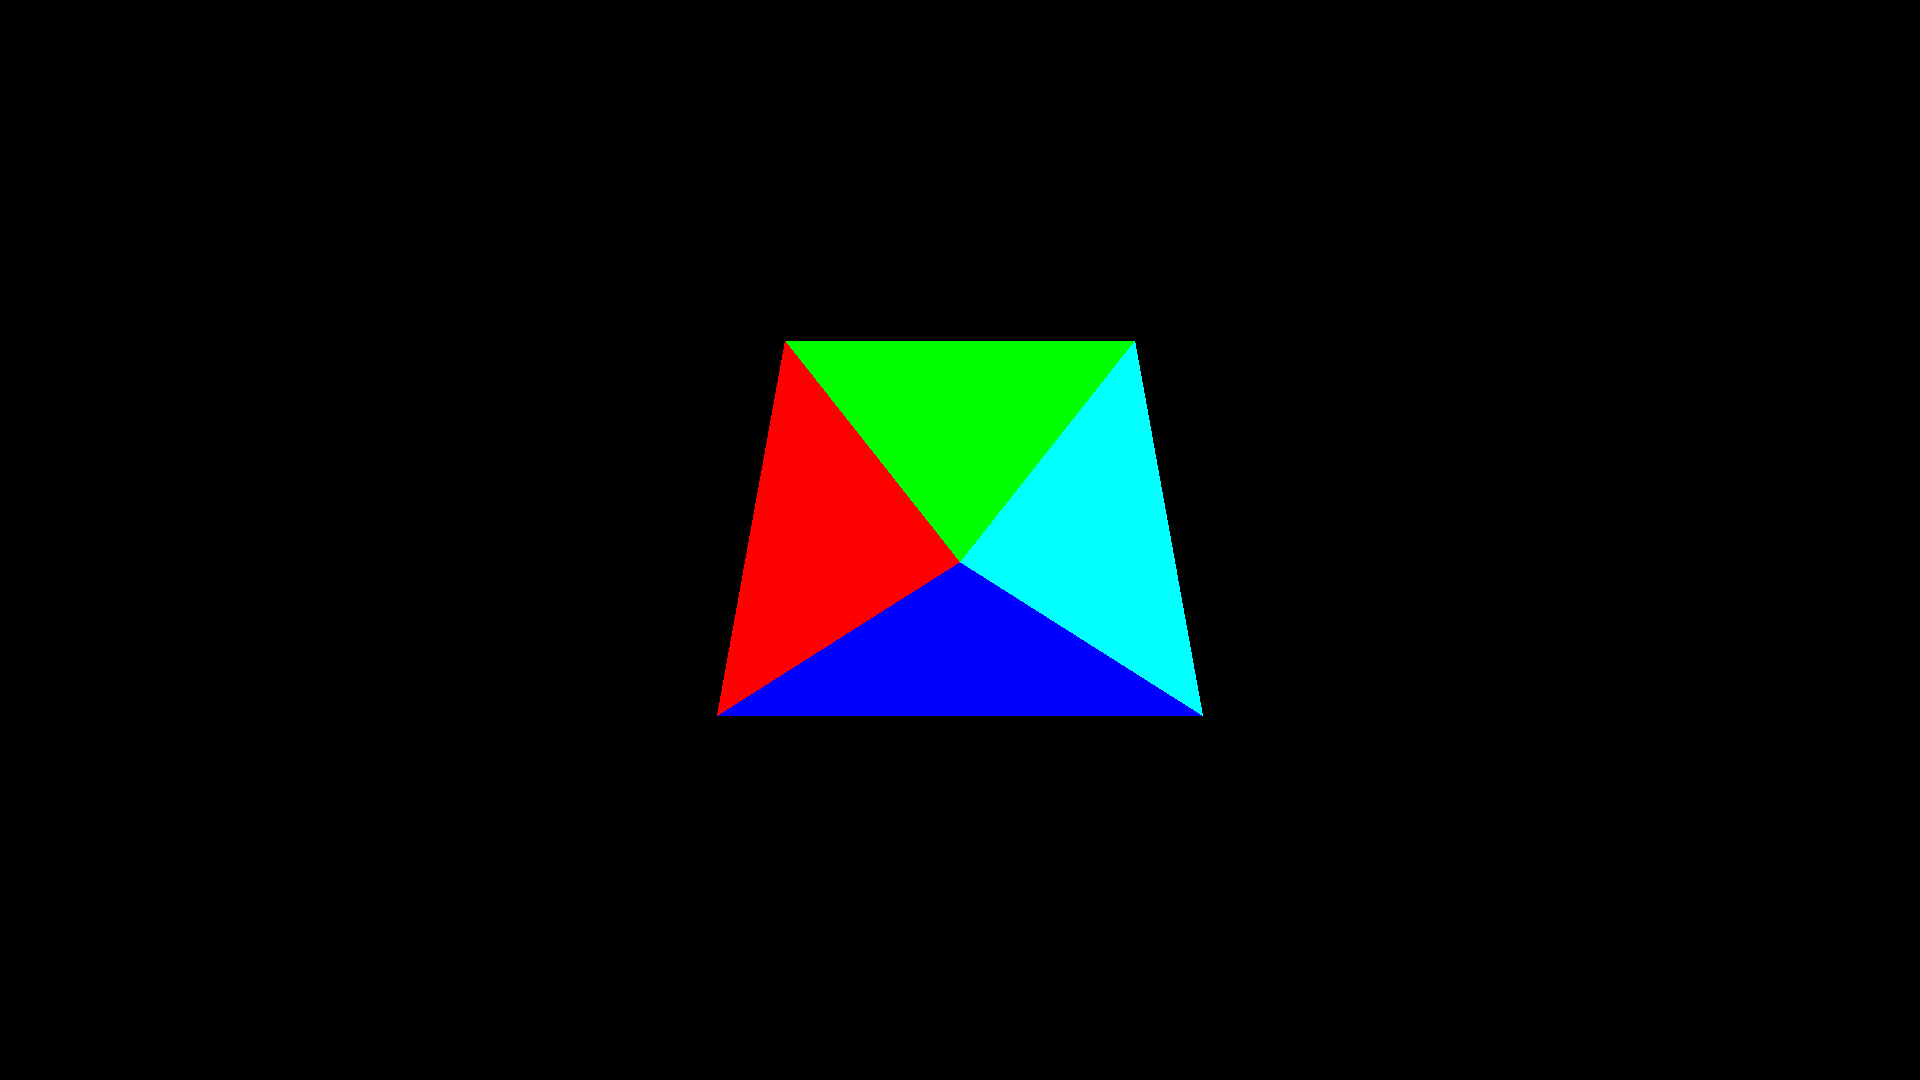
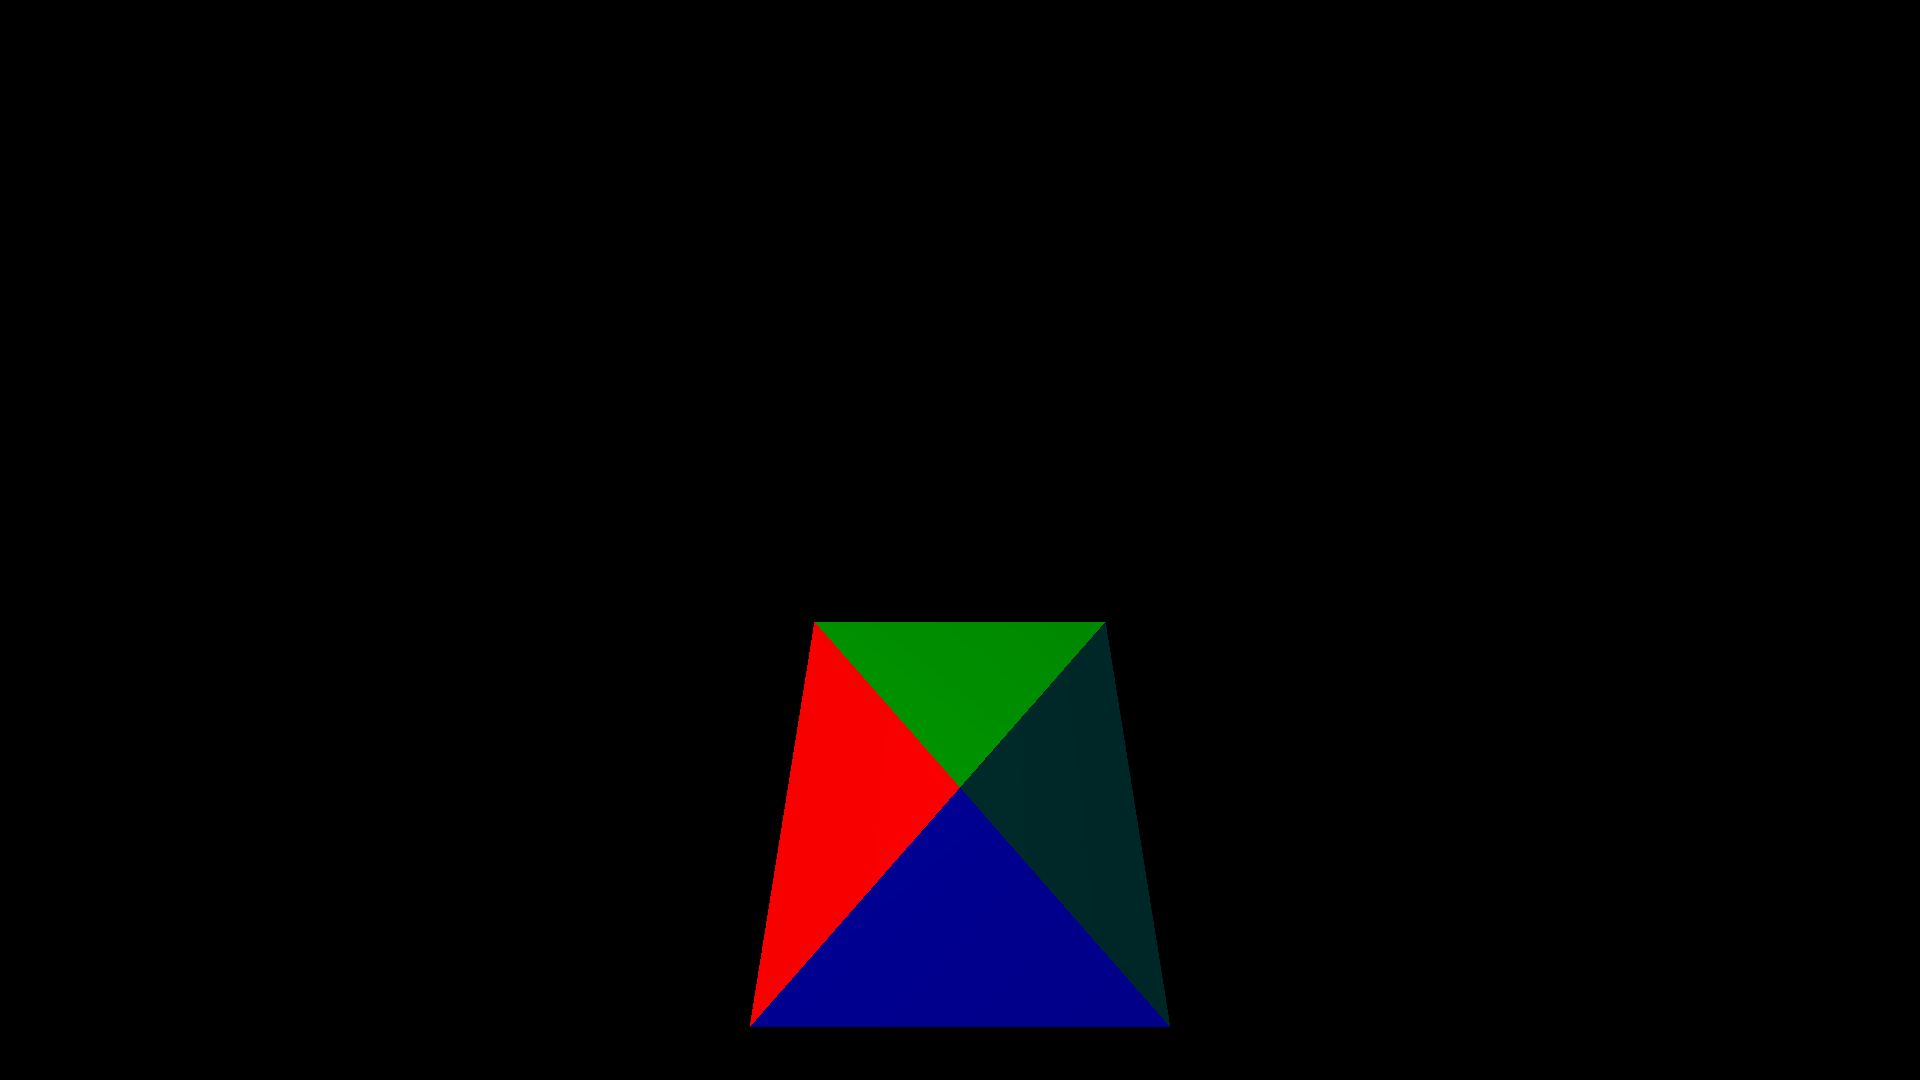
Add initial light calculations.

Changed region(s): [[0.375, 0.3056, 0.625, 0.9778]]

diff --git a/src/tracer/Tracer.java b/src/tracer/Tracer.java
@@ -4,6 +4,7 @@ import com.github.jordanpottruff.jgml.Mat4;
 import com.github.jordanpottruff.jgml.Vec3;
 import com.github.jordanpottruff.jgml.Vec4;
 import common.Face;
+import common.LightSource;
 import renderer.Renderer;
 import world.World;
 
@@ -31,18 +32,19 @@ public class Tracer {
 
     public Renderer trace(Mat4 transform, double fov) {
         Set<Face> faces = world.faces();
+        Set<LightSource> lights = world.lights();
         Renderer renderer = new Renderer(width, height);
         for(int x=0; x<width; x++) {
             for(int y=0; y<height; y++) {
                 Ray ray = getRay(transform, fov, x, y);
-                Vec3 color = tracePixel(ray, faces);
+                Vec3 color = tracePixel(ray, faces, lights);
                 renderer.setColor(x, y, color);
             }
         }
         return renderer;
     }
 
-    private Vec3 tracePixel(Ray ray, Set<Face> faces) {
+    private Vec3 tracePixel(Ray ray, Set<Face> faces, Set<LightSource> lights) {
         Intersection closest = null;
         for (Face face: faces) {
             Optional<Intersection> intersection = getIntersection(ray, face);
@@ -52,12 +54,42 @@ public class Tracer {
             }
         }
         if (closest != null) {
-            Face closestFace = closest.face();
-            Vec3 uvw = closest.uvw();
-            return closestFace.color(uvw.x(), uvw.y());
+            return getLight(closest, lights);
         } else {
             return new Vec3(0.0, 0.0, 0.0);
         }
+    }
+
+    private Vec3 getLight(Intersection intersection, Set<LightSource> lights) {
+        Face face = intersection.face();
+        double u = intersection.uvw().x();
+        double v = intersection.uvw().y();
+
+        Vec3 normal = face.normal(u, v);
+        Vec3 surfaceColor = face.color(u, v);
+        Vec3 colorTotal = new Vec3(0.0, 0.0, 0.0);
+        for (LightSource light: lights) {
+            Vec3 color = getLight(intersection.point(), surfaceColor, light, normal);
+            colorTotal = colorTotal.add(color);
+        }
+        double r = Math.min(colorTotal.x(), 1.0);
+        double g = Math.min(colorTotal.y(), 1.0);
+        double b = Math.min(colorTotal.z(), 1.0);
+        return new Vec3(r, g, b);
+    }
+
+    private Vec3 getLight(Vec3 point, Vec3 surfaceColor, LightSource light, Vec3 normal) {
+        Vec3 lightDir = light.position().subtract(point).normalize();
+        double intensity = normal.dot(lightDir);
+        if (intensity < 0) {
+            return new Vec3(0.0, 0.0, 0.0);
+        } else {
+            double r = surfaceColor.x() * light.color().x();
+            double g = surfaceColor.y() * light.color().y();
+            double b = surfaceColor.z() * light.color().z();
+            return new Vec3(r, g, b).scale(intensity);
+        }
+
     }
 
     private Optional<Intersection> getIntersection(Ray ray, Face face) {

diff --git a/src/Main.java b/src/Main.java
@@ -49,7 +49,7 @@ public class Main {
         World world = World.createFromFile(worldFilename);
         Tracer tracer = new Tracer(world, 1920, 1080);
 
-        Mat4 transformation = new Mat4.TransformBuilder().rotateX(-1.2).translate(new Vec3(0.0, -2.0, -1.0)).build();
+        Mat4 transformation = new Mat4.TransformBuilder().rotateX(-1.0708).translate(new Vec3(0.0, -3, 0.0)).build();
         Renderer r = tracer.trace(transformation, 100);
 
         r.savePNG(imageFilename);
